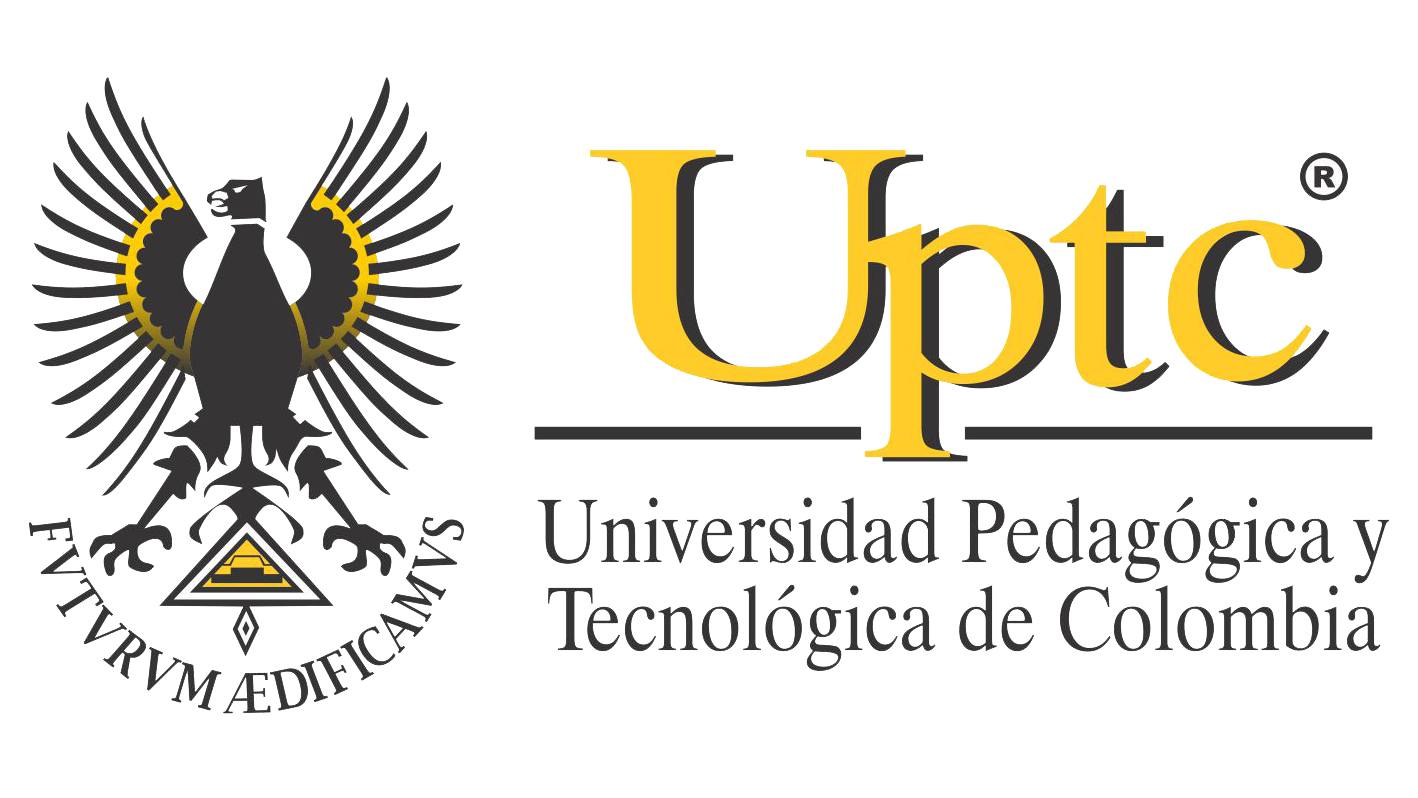
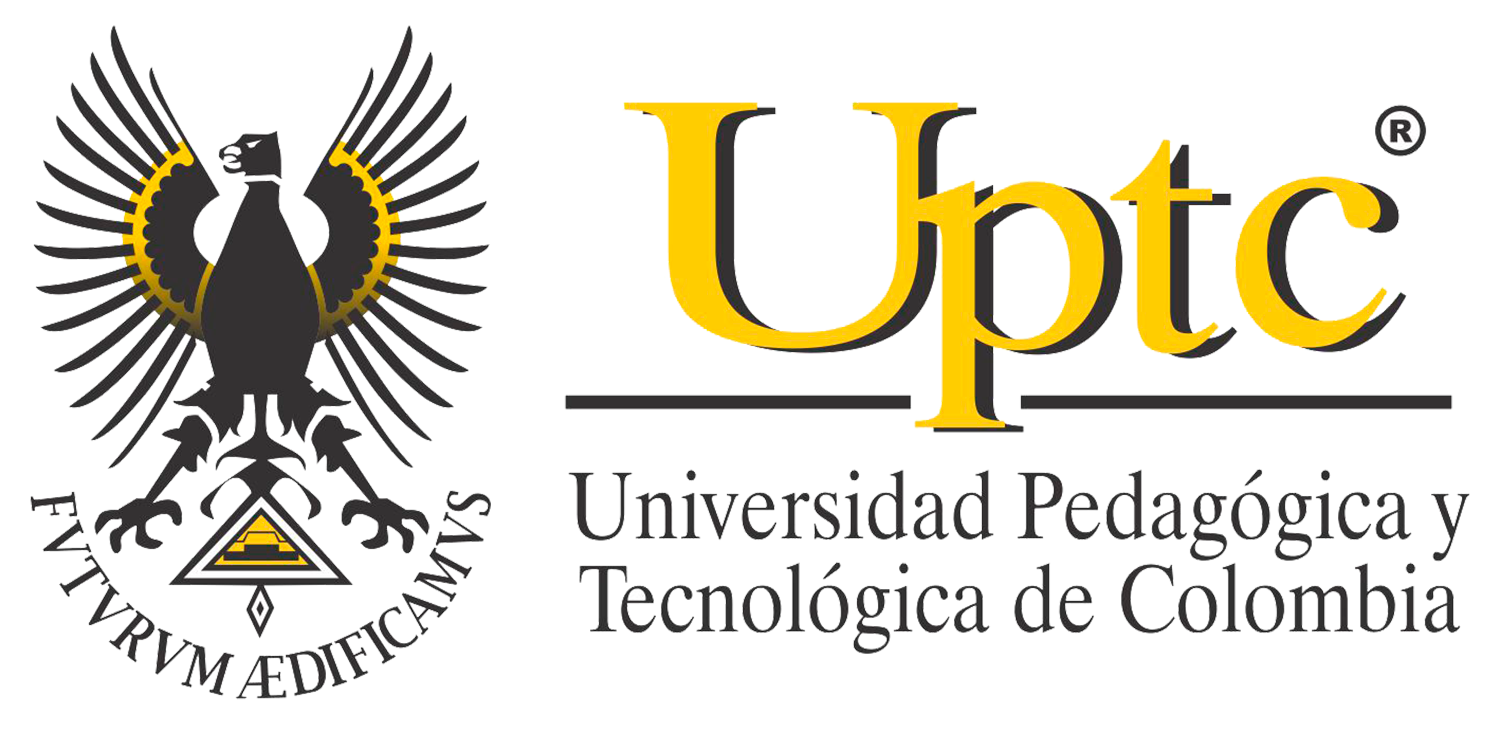
align the pictures

Changed region(s): [[0.0, 0.0301, 0.3413, 0.9617], [0.3724, 0.1202, 0.9619, 0.6011], [0.3724, 0.6011, 0.9929, 0.9016]]

diff --git a/index.html b/index.html
@@ -367,8 +367,8 @@
                 </div>
             </div>
             <div class="row">
-                <div class="col-md-6 view">
-                    <img src="./images/profesora.png" alt="imagen de la profesora encargada" class="img-fluid zoom">
+                <div class="col-md-6 align-self-center">
+                    <img src="./images/profesora.png" alt="imagen de la profesora encargada" class="img-fluid">
                 </div>
                 <div class="col-md-6">
                     <div class="my-4">
@@ -385,11 +385,11 @@
                         <ul class="list-group">
                             <li class="list-group-item">
                                 <img src="./images/universidad-de-los-andes.png" alt="logo de universidad de los andes"
-                                    class="img-fluid" height="18%" width="18%">
+                                    class="img-fluid">
                             </li>
                             <li class="list-group-item">
                                 <img src="./images/universidad-pedagogica-y-tecnologica-de-colombia.png" alt="logo de universidad pedagogica de colombia"
-                                    class="img-fluid" height="18%" width="18%">
+                                    class="img-fluid">
                             </li>
                         </ul>
                     </div>
